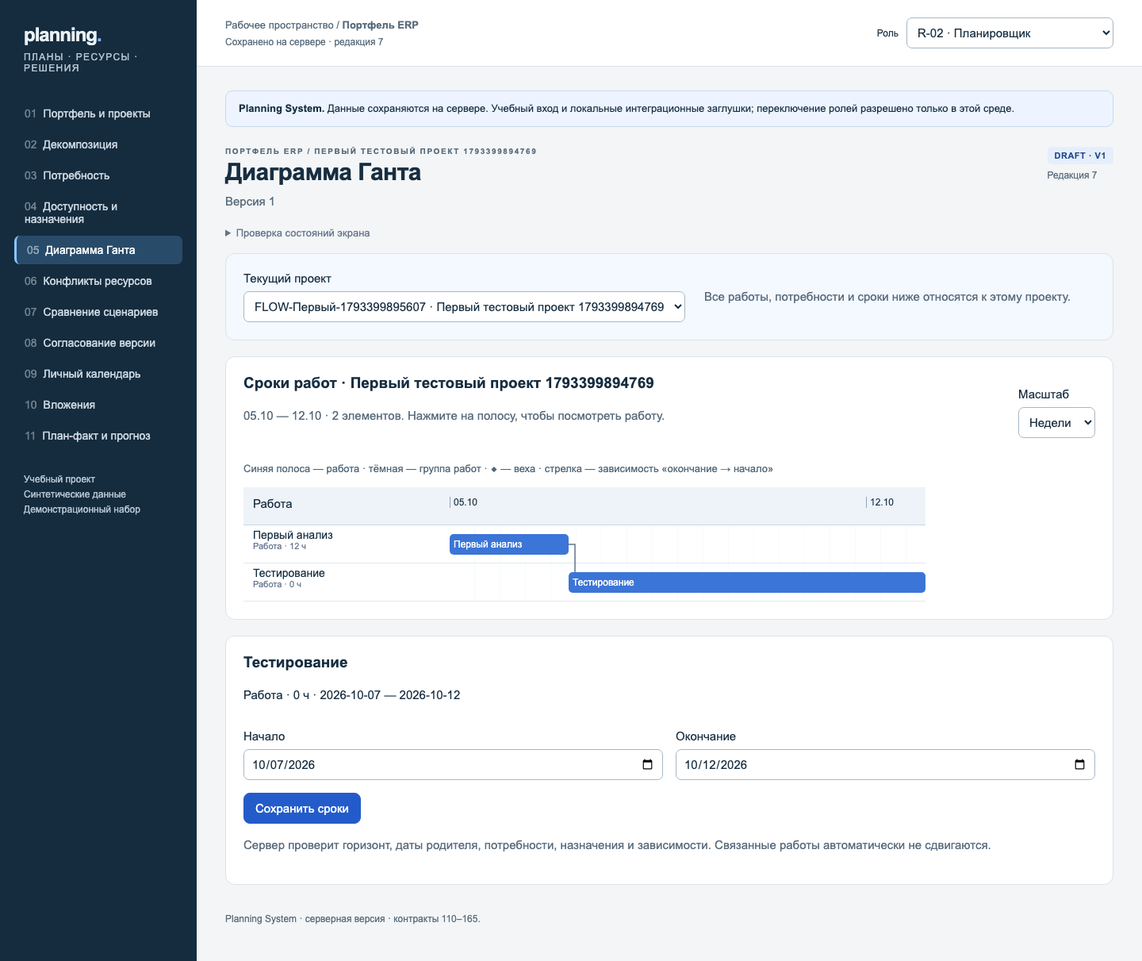
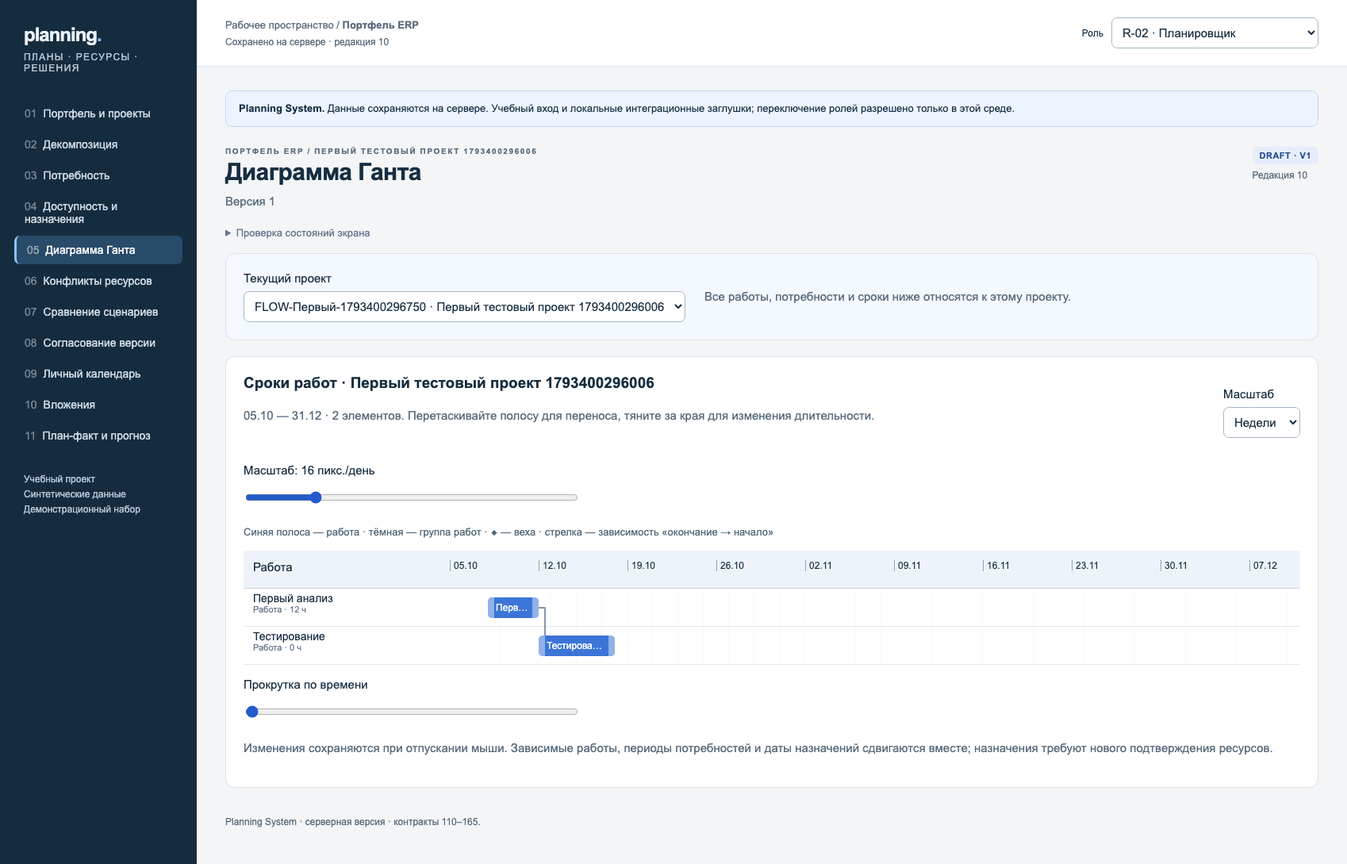
feat(planning): drag and resize Gantt with atomic date synchronization

diff --git a/planning-system/ui/app/app.js b/planning-system/ui/app/app.js
@@ -103,7 +103,7 @@ $('reset').hidden=true;
 window.addEventListener('hashchange',()=>{screen=location.hash.slice(1);mode='normal';render();$('main').focus()});
 async function start(){
  const config=await (await fetch('/auth/config')).json();authMode=config.mode;
- if(authMode==='demo'){token='demo-R-02';await refresh();return}
+ if(authMode==='demo'){token='demo-R-02';const remembered=sessionStorage.getItem('planning-project');if(remembered){const projects=await api('/api/v1/project-cards');if(projects.items.some(p=>p.id===remembered))projectId=remembered;}await refresh();return}
  $('role').hidden=true;
  const url=new URL(location.href);const code=url.searchParams.get('code');
  if(code){
@@ -133,7 +133,7 @@ function structureScreen(){
  if(!plan){$('content').innerHTML='<div class="card"><h2>План ещё не создан</h2>'+(['R-02','R-03'].includes(state.role)?'<button data-extra="first-plan">Создать первый план</button>':'<p>План создаёт планировщик или руководитель проекта.</p>')+'</div>';return;}
  const itemRows=plan.items.map(x=>`<tr><td><input data-item="${x.id}" data-field="name" value="${escape(x.name)}" ${editable()?'':'disabled'} aria-label="Название работы"></td><td>${escape(workTypes[x.type]||x.type)}</td><td><input type="date" data-item="${x.id}" data-field="start" value="${x.start}" ${editable()?'':'disabled'} aria-label="Начало работы"></td><td><input type="date" data-item="${x.id}" data-field="finish" value="${x.finish}" ${editable()?'':'disabled'} aria-label="Окончание работы"></td><td><input type="number" data-item="${x.id}" data-field="plannedHours" value="${x.plannedHours}" ${editable()?'':'disabled'} min="0" step="0.01" aria-label="Плановые часы"></td><td>${editable()?`<button data-remove-item="${x.id}">Удалить</button>`:''}</td></tr>`).join('');
  $('content').innerHTML=`<div class="card"><h2>Работы проекта</h2>${draftHelp()}<label class="field">Название проекта<input id="project-name" value="${escape(state.name)}" ${editable()?'':'disabled'}></label><div class="scroll"><table><thead><tr><th>Работа</th><th>Тип</th><th>Начало</th><th>Окончание</th><th>Часы</th><th></th></tr></thead><tbody>${itemRows}</tbody></table></div>${editable()?`<details open class="add-work"><summary>Добавить работу</summary><label class="field">Название<input id="new-item-name"></label><label class="field">Тип<select id="new-item-type">${['FEATURE','STAGE','EPIC','RELEASE','MILESTONE'].map(x=>'<option value="'+x+'">'+workTypes[x]+'</option>').join('')}</select></label><label class="field">Родитель<select id="new-item-parent"><option value="">Без родителя</option>${plan.items.filter(x=>x.type!=='MILESTONE'&&!plan.demands.some(d=>d.planItemId===x.id)).map(x=>`<option value="${x.id}">${escape(x.name)}</option>`).join('')}</select></label><div class="filter-grid"><label class="field">Начало<input id="new-item-start" type="date" value="${plan.horizonStart}"></label><label class="field">Окончание<input id="new-item-finish" type="date" value="${plan.horizonEnd}"></label></div><button data-extra="new-item" class="primary">Добавить работу</button></details>`:''}<div class="actions">${link('demand','Далее: потребность →')}</div></div>`;
- for(const input of document.querySelectorAll('[data-item]'))input.onchange=()=>command(async()=>{const d=draft();const item=d.items.find(x=>x.id===input.dataset.item);item[input.dataset.field]=input.dataset.field==='plannedHours'?Number(input.value):input.value;if(item.type==='MILESTONE'){if(['start','finish'].includes(input.dataset.field)){item.start=input.value;item.finish=input.value;}item.plannedHours=0}await saveDraft(d)});
+ for(const input of document.querySelectorAll('[data-item]'))input.onchange=()=>command(async()=>{const d=draft();const item=d.items.find(x=>x.id===input.dataset.item);if(['start','finish'].includes(input.dataset.field)){const start=item.type==='MILESTONE'||input.dataset.field==='start'?input.value:item.start;const finish=item.type==='MILESTONE'||input.dataset.field==='finish'?input.value:item.finish;await api('/api/v1/versions/'+plan.id+'/timeline','PATCH',{itemId:item.id,start,finish},plan.revision);return;}item[input.dataset.field]=input.dataset.field==='plannedHours'?Number(input.value):input.value;if(item.type==='MILESTONE'){if(['start','finish'].includes(input.dataset.field)){item.start=input.value;item.finish=input.value;}item.plannedHours=0}await saveDraft(d)});
  $('project-name').onchange=e=>command(()=>api('/api/v1/projects/'+projectId,'PATCH',{name:e.target.value.trim(),goal:state.goal||'Планирование проекта'},state.projectRevision));
  $('content').insertAdjacentHTML('beforeend',dependencyForm());
  if($('new-item-parent'))$('new-item-parent').onchange=()=>{const parent=plan.items.find(x=>x.id===$('new-item-parent').value);$('new-item-start').value=parent?.start||plan.horizonStart;$('new-item-finish').value=parent?.finish||plan.horizonEnd};
@@ -257,7 +257,7 @@ function dependencyForm(){
  return `<div class="card"><h2>Горизонт планирования</h2><p class="muted">Все работы должны находиться внутри этого периода. Сначала расширьте горизонт, если нужны другие даты.</p><div class="filter-grid"><label class="field">Начало периода<input type="date" id="horizon-start" value="${plan.horizonStart}" ${editable()?'':'disabled'}></label><label class="field">Окончание периода<input type="date" id="horizon-end" value="${plan.horizonEnd}" ${editable()?'':'disabled'}></label></div>${editable()?'<button id="save-horizon">Сохранить горизонт</button>':''}</div><div class="card"><h2>Зависимости работ</h2><p class="muted">Следующая работа начинается после завершения предыдущей с учётом рабочих дней. Выходные: суббота и воскресенье.</p>${plan.dependencies.map(d=>`<p>${escape(names[d.predecessorId])} → ${escape(names[d.successorId])} · ${d.lagWorkingDays} раб. дн. ${editable()?`<button data-remove-dependency="${d.id}">Удалить связь</button>`:''}</p>`).join('')||'<p>Зависимостей пока нет.</p>'}${editable()&&plan.items.length>1?`<div class="filter-grid"><label class="field">Предыдущая работа<select id="dependency-from">${plan.items.map(x=>`<option value="${x.id}">${escape(x.name)}</option>`).join('')}</select></label><label class="field">Следующая работа<select id="dependency-to">${plan.items.map(x=>`<option value="${x.id}">${escape(x.name)}</option>`).join('')}</select></label><label class="field">Задержка, рабочих дней<input type="number" id="dependency-lag" min="0" max="365" value="0"></label></div><button id="add-dependency">Добавить связь</button>`:''}</div>`;
 }
 const workTypes={RELEASE:'Релиз',STAGE:'Этап',EPIC:'Эпик',FEATURE:'Работа',MILESTONE:'Веха'};
-let planningChoices=null,contextRequest=0,ganttZoom='week',selectedWork=null;
+let planningChoices=null,contextRequest=0,ganttZoom='week',ganttPixels=null,selectedWork=null;
 const choiceName=(kind,id)=>planningChoices?.[kind]?.find(x=>x.id===id)?.name||id;
 const draftHelp=()=>editable()?'<p class="muted">Черновик: изменения сохраняются на сервере. Сначала добавьте работы, затем потребность и назначения.</p>':`<div class="notice">${plan?'Эта версия доступна для просмотра. Чтобы изменить утверждённый план, создайте сценарий.':'План ещё не создан.'} ${plan&&['APPROVED','ACTIVE'].includes(plan.status)&&['R-02','R-03'].includes(state.role)?link('scenarios','Создать сценарий →'):''}</div>`;
 function syncWorkHours(d){
@@ -295,8 +295,8 @@ async function ganttScreen(){
   const v=await api('/api/v1/project-timeline?projectId='+encodeURIComponent(pid));if(screen!=='gantt'||pid!==projectId)return;
   if(!v.items.length){$('content').innerHTML='<div class="card empty"><h2>Работ пока нет</h2><p>Добавьте работы и их даты в декомпозиции — они появятся здесь автоматически.</p>'+link('structure','Добавить работы →')+'</div>';return;}
   const ordered=[];const visit=(parent,depth)=>v.items.filter(x=>x.parentItemId===parent).forEach(x=>{ordered.push({...x,depth});visit(x.id,depth+1)});visit(null,0);
-  const first=Math.min(...ordered.map(x=>dayNumber(x.start))),last=Math.max(...ordered.map(x=>dayNumber(x.finish))),days=last-first+1;
-  const px=ganttZoom==='day'?42:ganttZoom==='week'?16:4,width=Math.max(600,days*px),unit=width/days;
+  const first=dayNumber(v.horizonStart),last=dayNumber(v.horizonEnd),days=last-first+1;
+  const px=ganttPixels??(ganttZoom==='day'?42:ganttZoom==='week'?16:4),width=Math.max(600,days*px),unit=width/days;
   const x=day=>(day-first)*unit;const labels=[];
   for(let day=first;day<=last;day++){
    const date=new Date(day*86400000),show=ganttZoom==='day'||(ganttZoom==='week'?date.getUTCDay()===1:date.getUTCDate()===1)||day===first;
@@ -305,11 +305,52 @@ async function ganttScreen(){
   const rowY=id=>ordered.findIndex(i=>i.id===id)*48+24;
   const arrows=v.dependencies.map(dep=>{const a=ordered.find(i=>i.id===dep.predecessorId),b=ordered.find(i=>i.id===dep.successorId);if(!a||!b)return '';const ax=x(dayNumber(a.finish)+1),bx=x(dayNumber(b.start)),ay=rowY(a.id),by=rowY(b.id);return `<path d="M ${ax} ${ay} H ${ax+8} V ${by} H ${bx}" fill="none" stroke="#64748b" stroke-width="1.5" marker-end="url(#arrow)"><title>${escape(a.name+' → '+b.name+'; задержка '+dep.lagWorkingDays+' раб. дн.')}</title></path>`;}).join('');
   const chosen=ordered.find(i=>i.id===selectedWork);
-  $('content').innerHTML=`<div class="card"><div class="section-heading"><div><h2>Сроки работ · ${escape(state.name)}</h2><p class="muted">${shortDate(isoDay(first))} — ${shortDate(isoDay(last))} · ${ordered.length} элементов. Нажмите на полосу, чтобы посмотреть работу.</p></div><label class="field">Масштаб<select id="gantt-zoom"><option value="day">Дни</option><option value="week">Недели</option><option value="month">Месяцы</option></select></label></div><p class="gantt-legend">Синяя полоса — работа · тёмная — группа работ · ◆ — веха · стрелка — зависимость «окончание → начало»</p><div class="scroll gantt-scroll" tabindex="0" aria-label="Диаграмма сроков с горизонтальной прокруткой"><div class="live-gantt" style="width:${260+width}px"><div class="gantt-heading">Работа</div><div class="gantt-scale" style="width:${width}px">${labels.join('')}</div>${ordered.map(i=>`<div class="gantt-name" style="padding-left:${12+i.depth*16}px" title="${escape(i.name)}">${escape(i.name)}<small>${workTypes[i.type]} · ${i.plannedHours} ч</small></div><div class="gantt-track" style="width:${width}px"><button class="gantt-bar ${i.type==='MILESTONE'?'milestone':ordered.some(c=>c.parentItemId===i.id)?'summary-bar':''}" data-gantt-work="${escape(i.id)}" style="left:${x(dayNumber(i.start))}px;width:${i.type==='MILESTONE'?Math.min(24,unit):Math.max(4,(dayNumber(i.finish)-dayNumber(i.start)+1)*unit)}px" aria-label="${escape(i.name)}: ${i.start} — ${i.finish}" title="${escape(i.name)} · ${i.start} — ${i.finish}">${i.type==='MILESTONE'?'◆':escape(i.name)}</button></div>`).join('')}<svg class="gantt-links" width="${width}" height="${ordered.length*48}" style="left:260px"><defs><marker id="arrow" markerWidth="6" markerHeight="6" refX="6" refY="3" orient="auto"><path d="M0,0 L6,3 L0,6" fill="#64748b"/></marker></defs>${arrows}</svg></div></div></div>${chosen?`<div class="card"><h2>${escape(chosen.name)}</h2><p>${workTypes[chosen.type]} · ${chosen.plannedHours} ч · ${chosen.start} — ${chosen.finish}</p>${editable()?`<div class="filter-grid"><label class="field">Начало<input id="gantt-start" type="date" value="${chosen.start}"></label><label class="field">Окончание<input id="gantt-finish" type="date" value="${chosen.finish}"></label></div><button class="primary" id="gantt-save">Сохранить сроки</button><p class="muted">Сервер проверит горизонт, даты родителя, потребности, назначения и зависимости. Связанные работы автоматически не сдвигаются.</p>`:draftHelp()}</div>`:''}`;
-  $('gantt-zoom').value=ganttZoom;$('gantt-zoom').onchange=e=>{ganttZoom=e.target.value;void ganttScreen()};
-  document.querySelectorAll('[data-gantt-work]').forEach(el=>el.onclick=()=>{selectedWork=el.dataset.ganttWork;void ganttScreen()});
-  if($('gantt-save'))$('gantt-save').onclick=()=>void command(async()=>{const d=draft(),item=d.items.find(i=>i.id===chosen.id);item.start=$('gantt-start').value;item.finish=item.type==='MILESTONE'?item.start:$('gantt-finish').value;await saveDraft(d)});
+  $('content').innerHTML=`<div class="card"><div class="section-heading"><div><h2>Сроки работ · ${escape(state.name)}</h2><p class="muted">${shortDate(isoDay(first))} — ${shortDate(isoDay(last))} · ${ordered.length} элементов. Перетаскивайте полосу для переноса, тяните за края для изменения длительности.</p></div><label class="field">Масштаб<select id="gantt-zoom"><option value="day">Дни</option><option value="week">Недели</option><option value="month">Месяцы</option></select></label></div><label class="field gantt-range">Масштаб: ${px} пикс./день<input id="gantt-scale-slider" type="range" min="4" max="64" step="1" value="${px}"></label><p class="gantt-legend">Синяя полоса — работа · тёмная — группа работ · ◆ — веха · стрелка — зависимость «окончание → начало»</p><div class="scroll gantt-scroll" tabindex="0" aria-label="Диаграмма сроков с горизонтальной прокруткой"><div class="live-gantt" style="width:${260+width}px"><div class="gantt-heading">Работа</div><div class="gantt-scale" style="width:${width}px">${labels.join('')}</div>${ordered.map(i=>`<div class="gantt-name" style="padding-left:${12+i.depth*16}px" title="${escape(i.name)}">${escape(i.name)}<small>${workTypes[i.type]} · ${i.plannedHours} ч</small></div><div class="gantt-track" style="width:${width}px"><button class="gantt-bar ${i.type==='MILESTONE'?'milestone':ordered.some(c=>c.parentItemId===i.id)?'summary-bar':''}" data-gantt-work="${escape(i.id)}" style="left:${x(dayNumber(i.start))}px;width:${i.type==='MILESTONE'?Math.min(24,unit):Math.max(4,(dayNumber(i.finish)-dayNumber(i.start)+1)*unit)}px" aria-label="${escape(i.name)}: ${i.start} — ${i.finish}" title="${escape(i.name)} · ${i.start} — ${i.finish}">${editable()&&i.type!=='MILESTONE'?'<span class="gantt-handle left" data-resize="start" aria-hidden="true"></span>':''}<span class="gantt-bar-text">${i.type==='MILESTONE'?'◆':escape(i.name)}</span>${editable()&&i.type!=='MILESTONE'?'<span class="gantt-handle right" data-resize="finish" aria-hidden="true"></span>':''}</button></div>`).join('')}<svg class="gantt-links" width="${width}" height="${ordered.length*48}" style="left:260px"><defs><marker id="arrow" markerWidth="6" markerHeight="6" refX="6" refY="3" orient="auto"><path d="M0,0 L6,3 L0,6" fill="#64748b"/></marker></defs>${arrows}</svg></div></div><label class="field gantt-range">Прокрутка по времени<input id="gantt-scroll-slider" type="range" min="0" max="1000" value="0"></label><p class="muted">${editable()?'Изменения сохраняются при отпускании мыши. Зависимые работы, периоды потребностей и даты назначений сдвигаются вместе; назначения требуют нового подтверждения ресурсов.':'Версия доступна только для просмотра. Для изменения активного плана создайте сценарий.'}</p><div id="gantt-drag-status" role="status" aria-live="polite"></div></div>${chosen?`<div class="card"><h2>${escape(chosen.name)}</h2><p>${workTypes[chosen.type]} · ${chosen.plannedHours} ч · ${chosen.start} — ${chosen.finish}</p>${editable()?`<div class="filter-grid"><label class="field">Начало<input id="gantt-start" type="date" value="${chosen.start}"></label><label class="field">Окончание<input id="gantt-finish" type="date" value="${chosen.finish}"></label></div><button class="primary" id="gantt-save">Сохранить сроки</button><p class="muted">Сохранение синхронизирует декомпозицию, потребности, назначения и зависимые работы. Доступность сотрудников не переносится: её нужно подтвердить на новые даты.</p>`:draftHelp()}</div>`:''}`;
+  $('gantt-zoom').value=ganttZoom;$('gantt-zoom').onchange=e=>{ganttZoom=e.target.value;ganttPixels=null;void ganttScreen()};
+  $('gantt-scale-slider').onchange=e=>{ganttPixels=Number(e.target.value);void ganttScreen()};
+  const scroll=document.querySelector('.gantt-scroll'),slider=$('gantt-scroll-slider');
+  slider.oninput=()=>{scroll.scrollLeft=(scroll.scrollWidth-scroll.clientWidth)*Number(slider.value)/1000};
+  scroll.onscroll=()=>{slider.value=scroll.scrollWidth===scroll.clientWidth?0:Math.round(scroll.scrollLeft/(scroll.scrollWidth-scroll.clientWidth)*1000)};
+  bindGanttDragging(v,unit,first);
+
+  if($('gantt-save'))$('gantt-save').onclick=()=>void command(async()=>{await api('/api/v1/versions/'+v.id+'/timeline','PATCH',{itemId:chosen.id,start:$('gantt-start').value,finish:chosen.type==='MILESTONE'?$('gantt-start').value:$('gantt-finish').value},v.revision)});
  }catch(e){if(screen==='gantt'&&pid===projectId)$('content').innerHTML='<div class="card">Не удалось загрузить диаграмму: '+escape(e.message)+'</div>';}
+}
+
+
+function bindGanttDragging(v,unit,first){
+ for(const el of document.querySelectorAll('[data-gantt-work]')){
+  const item=v.items.find(x=>x.id===el.dataset.ganttWork);let gesture=null,suppressClick=false;
+  el.onclick=()=>{if(suppressClick){suppressClick=false;return}selectedWork=item.id;void ganttScreen()};
+  if(!editable())continue;
+  el.classList.add('draggable');
+  el.onpointerdown=e=>{
+   if(e.button!==0||pending)return;
+   gesture={x:e.clientX,scroll:document.querySelector('.gantt-scroll').scrollLeft,edge:e.target.closest('[data-resize]')?.dataset.resize,start:dayNumber(item.start),finish:dayNumber(item.finish),moved:false};
+   el.setPointerCapture(e.pointerId);e.preventDefault();
+  };
+  el.onpointermove=e=>{
+   if(!gesture)return;
+   const scroll=document.querySelector('.gantt-scroll');
+   const delta=Math.round((e.clientX-gesture.x+scroll.scrollLeft-gesture.scroll)/unit);
+   const g=gesture;g.moved=g.moved||Math.abs(e.clientX-g.x)>3;
+   let start=g.start+(g.edge==='finish'?0:delta),finish=g.finish+(g.edge==='start'?0:delta);
+   if(start>finish){if(g.edge==='start')start=finish;else finish=start;}
+   if(item.type==='MILESTONE')finish=start;
+   g.nextStart=start;g.nextFinish=finish;
+   el.style.left=((start-first)*unit)+'px';el.style.width=(item.type==='MILESTONE'?Math.min(24,unit):Math.max(4,(finish-start+1)*unit))+'px';
+   el.classList.add('dragging');$('gantt-drag-status').textContent=item.name+': '+isoDay(start)+' — '+isoDay(finish);
+  };
+  el.onpointerup=e=>{
+   if(!gesture)return;const g=gesture;gesture=null;el.releasePointerCapture(e.pointerId);el.classList.remove('dragging');
+   if(!g.moved)return;suppressClick=true;
+   if(g.nextStart===g.start&&g.nextFinish===g.finish){void ganttScreen();return;}
+   selectedWork=item.id;
+   void command(async()=>{await api('/api/v1/versions/'+v.id+'/timeline','PATCH',{itemId:item.id,start:isoDay(g.nextStart),finish:isoDay(g.nextFinish)},v.revision);toast('Сроки синхронизированы. Проверьте доступность ресурсов на новые даты.');});
+  };
+  el.onpointercancel=()=>{gesture=null;suppressClick=true;void ganttScreen()};
+  el.onkeydown=e=>{if(!['ArrowLeft','ArrowRight'].includes(e.key)||pending)return;e.preventDefault();const delta=e.key==='ArrowRight'?1:-1;selectedWork=item.id;void command(()=>api('/api/v1/versions/'+v.id+'/timeline','PATCH',{itemId:item.id,start:isoDay(dayNumber(item.start)+delta),finish:isoDay(dayNumber(item.finish)+delta)},v.revision));};
+ }
 }
 
 start().catch(e=>{$('main').innerHTML='<div class="card"><h1>Не удалось загрузить рабочее пространство</h1><p>'+escape(e.message)+'</p></div>'});

diff --git a/planning-system/ui/app/style.css b/planning-system/ui/app/style.css
@@ -7,3 +7,5 @@ header{display:flex;justify-content:space-between;gap:20px;align-items:center;pa
 .project-grid{display:grid;grid-template-columns:repeat(auto-fit,minmax(min(100%,300px),1fr));gap:20px}.project-card{margin:0;display:flex;flex-direction:column;min-width:0;overflow-wrap:anywhere}.project-card h2{margin:18px 0 8px}.project-goal{color:var(--muted);flex:1}.project-card dl{display:grid;grid-template-columns:1fr;gap:6px;margin:12px 0 22px}.project-card dt{font-size:12px;color:var(--muted)}.project-card dd{margin:0 0 12px}.selected-project{border:2px solid var(--blue)}.section-heading{display:flex;align-items:flex-start;justify-content:space-between;gap:16px;flex-wrap:wrap}.section-heading p{margin:0}.filter-grid{display:grid;grid-template-columns:repeat(auto-fit,minmax(min(100%,190px),1fr));gap:16px}.filter-grid input,.filter-grid select{width:100%;min-width:0;max-width:100%}.create-project summary{cursor:pointer;font-size:18px;font-weight:700;color:var(--blue)}#project-grid .empty{grid-column:1/-1}select{max-width:100%}@media(max-width:700px){.project-grid{gap:16px}.section-heading button{width:100%}.filter-grid{gap:0}}
 /* Work planning and timelines */
 .screen-debug{margin:0 0 18px;color:#64748b;font-size:13px}.screen-debug summary{cursor:pointer}.project-switch{display:flex;align-items:center;gap:24px;background:#f4f8ff}.project-switch .field{min-width:280px;margin:0}.add-work{margin-top:24px;padding:20px;background:#f4f8ff;border-radius:12px}.add-work summary{font-size:19px;font-weight:700;margin-bottom:16px;cursor:pointer}.gantt-legend{font-size:13px;color:#526778}.live-gantt{display:grid;grid-template-columns:260px 1fr;position:relative;min-width:860px}.gantt-heading,.gantt-scale{height:48px;background:#eef3fa;position:relative;border-bottom:1px solid #cbd5e1}.gantt-heading{padding:12px;position:sticky;left:0;z-index:4}.gantt-date{position:absolute;top:12px;font-size:12px;white-space:nowrap;padding-left:4px;border-left:1px solid #94a3b8}.gantt-name{position:sticky;left:0;z-index:3;background:white;height:48px;border-bottom:1px solid #e2e8f0;overflow:hidden;white-space:nowrap;text-overflow:ellipsis;font-size:14px;padding-top:4px}.gantt-name small{display:block;color:#64748b;font-size:11px}.gantt-track{position:relative;height:48px;background:repeating-linear-gradient(90deg,#fff 0,#fff 31px,#f1f5f9 32px);border-bottom:1px solid #e2e8f0}.gantt-bar{position:absolute;top:11px;height:26px;min-height:0;border:0;border-radius:5px;background:#3b75d7;color:white;padding:2px 5px;overflow:hidden;white-space:nowrap;text-overflow:ellipsis;text-align:left;font-size:12px;z-index:2}.gantt-bar.summary-bar{background:#183b52;height:18px;top:15px}.gantt-bar.milestone{background:transparent;color:#a85d00;font-size:22px;overflow:visible;padding:0}.gantt-links{position:absolute;top:48px;pointer-events:none;z-index:1}.gantt-scroll:focus{outline:2px solid #235cca}.gantt-scroll{max-height:640px}.project-switch p{margin:0}@media(max-width:720px){.project-switch{display:block}.project-switch .field{min-width:0}.project-switch p{margin-top:12px}}
+.gantt-bar.draggable{cursor:grab;touch-action:none;user-select:none;padding-left:10px;padding-right:10px}.gantt-bar.dragging{cursor:grabbing;opacity:.8;outline:2px solid #143758;z-index:5}.gantt-handle{position:absolute;top:0;bottom:0;width:8px;background:#ffffff70;cursor:ew-resize;z-index:1}.gantt-handle.left{left:0}.gantt-handle.right{right:0}.gantt-bar-text{pointer-events:none}.gantt-range{max-width:420px;margin:16px 0}.gantt-range input[type=range]{padding:0;min-height:32px;width:100%;accent-color:#235cca}#gantt-drag-status{font-weight:600;color:#235cca}
+.shell>div,main,.card{min-width:0}.gantt-scroll{max-width:100%}.project-switch select{max-width:100%}

diff --git a/planning-system/server/scheduling.py b/planning-system/server/scheduling.py
@@ -1,0 +1,71 @@
+"""Atomic timeline changes: work tree, FS successors, demands and assignments."""
+import copy
+from datetime import date, timedelta
+from .domain import fail, validate_draft
+
+
+def reschedule(plan, identifier, start, finish):
+    result=copy.deepcopy(plan)
+    items={x['id']:x for x in result['items']}
+    before={x['id']:x for x in plan['items']}
+    if identifier not in items:fail(404,'Работа не найдена')
+    if start>finish:fail(422,'Начало позже окончания')
+    item=items[identifier]
+    if item['type']=='MILESTONE' and start!=finish:fail(422,'Веха должна иметь одну дату')
+
+    def shift(node, days):
+        x=items[node]
+        for key in ['start','finish']:x[key]=(date.fromisoformat(x[key])+timedelta(days=days)).isoformat()
+        for child in result['items']:
+            if child['parentItemId']==node:shift(child['id'],days)
+
+    delta=(date.fromisoformat(start)-date.fromisoformat(item['start'])).days
+    moving=(date.fromisoformat(finish)-date.fromisoformat(item['finish'])).days==delta
+    if moving:shift(identifier,delta)
+    else:
+        item.update(start=start,finish=finish)
+        children=[x for x in items.values() if x['parentItemId']==identifier]
+        if any(x['start']<start or x['finish']>finish for x in children):
+            fail(422,'Группа должна вмещать дочерние работы. Перенесите группу целиком или измените работы внутри неё.')
+
+    # Expand ancestors and push successors until both tree and FS constraints settle.
+    # Ancestor/descendant dependency loops are rejected rather than drifting forever.
+    for _ in range((len(items)+len(result['dependencies'])+1)*2):
+        changed=False
+        for x in items.values():
+            if not x['parentItemId']:continue
+            parent=items[x['parentItemId']]
+            left=min(parent['start'],x['start']);right=max(parent['finish'],x['finish'])
+            if (left,right)!=(parent['start'],parent['finish']):
+                if parent['type']=='MILESTONE':fail(422,'Веха не может содержать работы')
+                parent.update(start=left,finish=right);changed=True
+        for dep in result['dependencies']:
+            predecessor=items[dep['predecessorId']];successor=items[dep['successorId']]
+            earliest=date.fromisoformat(predecessor['finish'])
+            for _ in range(dep['lagWorkingDays']+1):
+                earliest+=timedelta(days=1)
+                while earliest.weekday()>4:earliest+=timedelta(days=1)
+            if successor['start']<earliest.isoformat():
+                shift(successor['id'],(earliest-date.fromisoformat(successor['start'])).days);changed=True
+        if not changed:break
+    else:fail(422,'Зависимости и структура не позволяют согласовать сроки')
+
+    changed_ids={k for k,v in items.items() if (v['start'],v['finish'])!=(before[k]['start'],before[k]['finish'])}
+    for demand in result['demands']:
+        key=demand['planItemId']
+        if key not in changed_ids:continue
+        old=before[key];new=items[key]
+        days=(date.fromisoformat(new['start'])-date.fromisoformat(old['start'])).days
+        previous_start=demand['periodStart'];previous_end=demand['periodEnd']
+        def bounded(value):return min(max(value,new['start']),new['finish'])
+        demand['periodStart']=bounded((date.fromisoformat(previous_start)+timedelta(days=days)).isoformat())
+        demand['periodEnd']=new['finish'] if previous_end==old['finish'] else bounded((date.fromisoformat(previous_end)+timedelta(days=days)).isoformat())
+        for allocation in result['allocations']:
+            if allocation['demandId']!=demand['id']:continue
+            # Cancelled history stays cancelled, while its date remains contract-valid.
+            moved=(date.fromisoformat(allocation['date'])+timedelta(days=days)).isoformat()
+            allocation['date']=min(max(moved,demand['periodStart']),demand['periodEnd'])
+            if allocation['status']!='CANCELLED':allocation['status']='PROPOSED'
+    # A timeline move never silently extends the explicitly chosen plan horizon.
+    validate_draft(result)
+    return result,sorted(changed_ids)

diff --git a/planning-system/tests/test_scheduling.py b/planning-system/tests/test_scheduling.py
@@ -1,0 +1,63 @@
+import copy
+from uuid import uuid4
+import pytest
+from fastapi import HTTPException
+from server import storage as db
+from server.seed import stable
+from server.scheduling import reschedule
+from test_application import call
+from test_project_features import PID, PORT, VID, revision
+
+
+def seeded():
+    with db.engine.connect() as c:return copy.deepcopy(db.find(c,'plan',VID)['data'])
+
+
+def test_move_synchronizes_tree_fs_demands_and_assignments(client):
+    plan=seeded();plan['dependencies']=[{'id':str(uuid4()),'predecessorId':stable('feature'),'successorId':stable('milestone'),'type':'FS','lagWorkingDays':0}]
+    plan['allocations'][0]['status']='CONFIRMED'
+    result,moved=reschedule(plan,stable('feature'),'2026-10-10','2026-10-10')
+    items={x['id']:x for x in result['items']}
+    assert items[stable('milestone')]['start']=='2026-10-12'  # FS skips weekend
+    assert items[stable('release')]['finish']=='2026-10-12'
+    assert result['demands'][0]['periodStart']==result['demands'][0]['periodEnd']=='2026-10-10'
+    assert result['allocations'][0]['date']=='2026-10-10'
+    assert result['allocations'][0]['status']=='PROPOSED'
+    assert result['allocations'][0]['hours']==6
+    assert stable('milestone') in moved and plan['items'][2]['start']=='2026-10-05'
+
+
+def test_group_move_and_resize_preserve_hours_and_cancelled_state(client):
+    plan=seeded();plan['allocations'][0]['status']='CANCELLED'
+    moved,_=reschedule(plan,stable('release'),'2026-10-07','2026-10-11')
+    assert moved['demands'][0]['periodStart']=='2026-10-07'
+    assert moved['allocations'][0]['status']=='CANCELLED'
+    assert moved['items'][3]['finish']=='2026-10-11'
+    resized,_=reschedule(plan,stable('feature'),'2026-10-05','2026-10-08')
+    assert resized['demands'][0]['periodEnd']=='2026-10-08'
+    assert resized['demands'][0]['hours']==6
+    with pytest.raises(HTTPException):reschedule(plan,stable('release'),'2026-10-08','2026-10-09')
+
+
+def test_timeline_command_atomic_revision_and_idempotency(client):
+    body={'itemId':stable('feature'),'start':'2026-10-06','finish':'2026-10-07'}
+    key=str(uuid4());rev=revision()
+    result=call(client,'PATCH',f'versions/{VID}/timeline',body,revision=rev,key=key)
+    assert result==call(client,'PATCH',f'versions/{VID}/timeline',body,revision=rev,key=key)
+    assert revision()==rev+1
+    call(client,'PATCH',f'versions/{VID}/timeline',body,revision=rev,expected=412)
+    before=seeded()
+    call(client,'PATCH',f'versions/{VID}/timeline',{**body,'finish':'2027-01-01'},revision=revision(),expected=422)
+    assert seeded()==before
+    call(client,'PATCH',f'versions/{VID}/timeline',{**body,'start':'bad-date'},revision=revision(),expected=422)
+    call(client,'PATCH',f'versions/{VID}/timeline',body,revision=revision(),role='R-04',expected=403)
+    with db.engine.begin() as c:
+        v=seeded();v['status']='APPROVED';db.put(c,'plan',v,PORT,PID)
+    call(client,'PATCH',f'versions/{VID}/timeline',body,revision=revision(),expected=409)
+
+
+def test_cross_project_work_and_impossible_parent_dependency_rejected(client):
+    plan=seeded()
+    with pytest.raises(HTTPException):reschedule(plan,str(uuid4()),'2026-10-06','2026-10-06')
+    plan['dependencies']=[{'id':str(uuid4()),'predecessorId':stable('release'),'successorId':stable('feature'),'type':'FS','lagWorkingDays':0}]
+    with pytest.raises(HTTPException):reschedule(plan,stable('feature'),'2026-10-06','2026-10-06')

diff --git a/planning-system/server/ui_features.py b/planning-system/server/ui_features.py
@@ -179,6 +179,25 @@ def register(app, command_tx):
                         ('middle','Middle'),('senior','Senior'),('lead','Ведущий специалист')]],
                     'source':'Локальный справочник Planning System; руководители — из проектов и кадрового кэша'}
 
+    @app.patch('/api/v1/versions/{versionId}/timeline')
+    async def change_timeline(req:Request):
+        from .scheduling import reschedule
+        a=actor(req);allowed(a,['R-02','R-03']);b=await read_json(req)
+        if set(b)!={'itemId','start','finish'} or not all(isinstance(x,str) for x in b.values()):
+            fail(422,'Нужны работа, начало и окончание')
+        try:
+            for key in ['start','finish']:
+                if date.fromisoformat(b[key]).isoformat()!=b[key]:raise ValueError()
+        except ValueError:fail(422,'Неверная дата')
+        with command_tx(req,a,b) as (c,cached,complete):
+            if cached:return cached
+            v=get(c,'plan',req.path_params['versionId'],a);p=get(c,'project',v['projectId'],a)
+            if v['status']!='DRAFT' or p['status']=='ARCHIVED':fail(409,'Сроки изменяются только в черновике действующего проекта')
+            try:v,moved=reschedule(v,b['itemId'],b['start'],b['finish'])
+            except (OverflowError,ValueError):fail(422,'Сроки вышли за допустимые границы')
+            v['contentRevision']+=1;changed(c,'plan',v,req,a)
+            return complete({'revision':v['revision'],'changedItemIds':moved},p['portfolioId'],p['id'])
+
     @app.get('/api/v1/project-timeline')
     def timeline(req:Request):
         a=actor(req);allowed(a,['R-01','R-02','R-03','R-04'])

diff --git a/planning-system/development.md b/planning-system/development.md
@@ -241,10 +241,32 @@ GET `/api/v1/project-timeline?projectId=...` возвращает реальны
 последней версии только доступного проекта, без ставок, бюджета и назначений.
 Гант отображает иерархию, даты, вехи и FS-стрелки, имеет три масштаба и прокрутку.
 Щелчок по полосе открывает сроки; изменение доступно только в черновике.
-Сервер проверяет горизонт, иерархию, потребности и FS-зависимости. Автоматического
-сдвига связанных работ и календаря государственных праздников нет; рабочие дни
+Сервер проверяет горизонт, иерархию, потребности и FS-зависимости. Календаря государственных праздников нет; рабочие дни
 для FS — понедельник–пятница, как в существующем домене.
 
 Регрессионный маршрут: `APP_URL=... PLAYWRIGHT_MODULE=... node
 planning-system/scripts/check-workflows.mjs` на отдельной demo-базе. Создаёт два
 тестовых проекта и проверяет их изоляцию, формы, Гант и обе фильтрованные XLSX.
+
+
+### Перетаскивание и синхронизация сроков
+
+В черновике полоса Ганта переносится мышью целиком, её края меняют начало/окончание.
+Веха переносится как одна дата; группа перемещается вместе с дочерними работами.
+Стрелки влево/вправо на сфокусированной полосе переносят работу на один день.
+Два range-бегунка управляют масштабом и горизонтальной прокруткой.
+
+PATCH `/api/v1/versions/{versionId}/timeline` принимает `itemId`, `start`, `finish`,
+If-Match и Idempotency-Key. Одной транзакцией обновляются даты работы, вложенных
+работ при переносе группы, FS-последователей (только вперёд), периоды потребностей
+и даты назначений. Родительские интервалы расширяются при необходимости, но
+горизонт плана автоматически не меняется. При растягивании группы дочерние работы
+должны оставаться внутри её дат. Часы не изменяются; назначение на выходной само
+по себе не запрещено, но потребует доступности на новую дату. Сдвиг сбрасывает
+подтверждение затронутых назначений в PROPOSED, CANCELLED сохраняется. Доступность
+кадров не переносится и согласование ресурсов выполняется заново.
+
+Даты в декомпозиции и редакторе Ганта используют ту же операцию. Ошибка или
+устаревшая ревизия откатывает всю операцию; интерфейс перечитывает серверные данные.
+Циклы между иерархией и зависимостями и выход за горизонт дают 422 без частичного
+сохранения. Активные и утверждённые версии остаются неизменяемыми.
